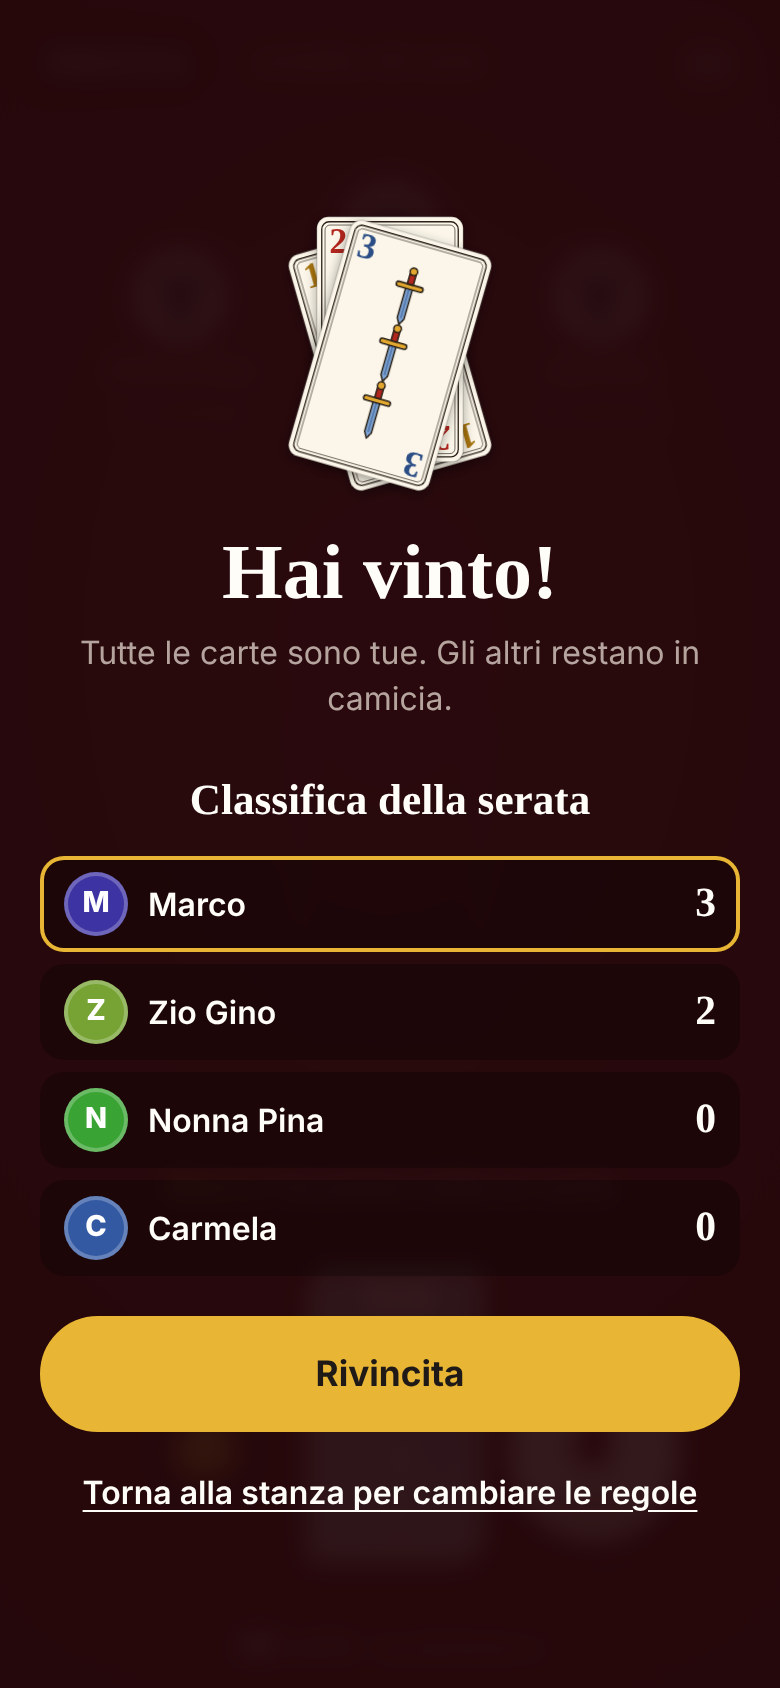
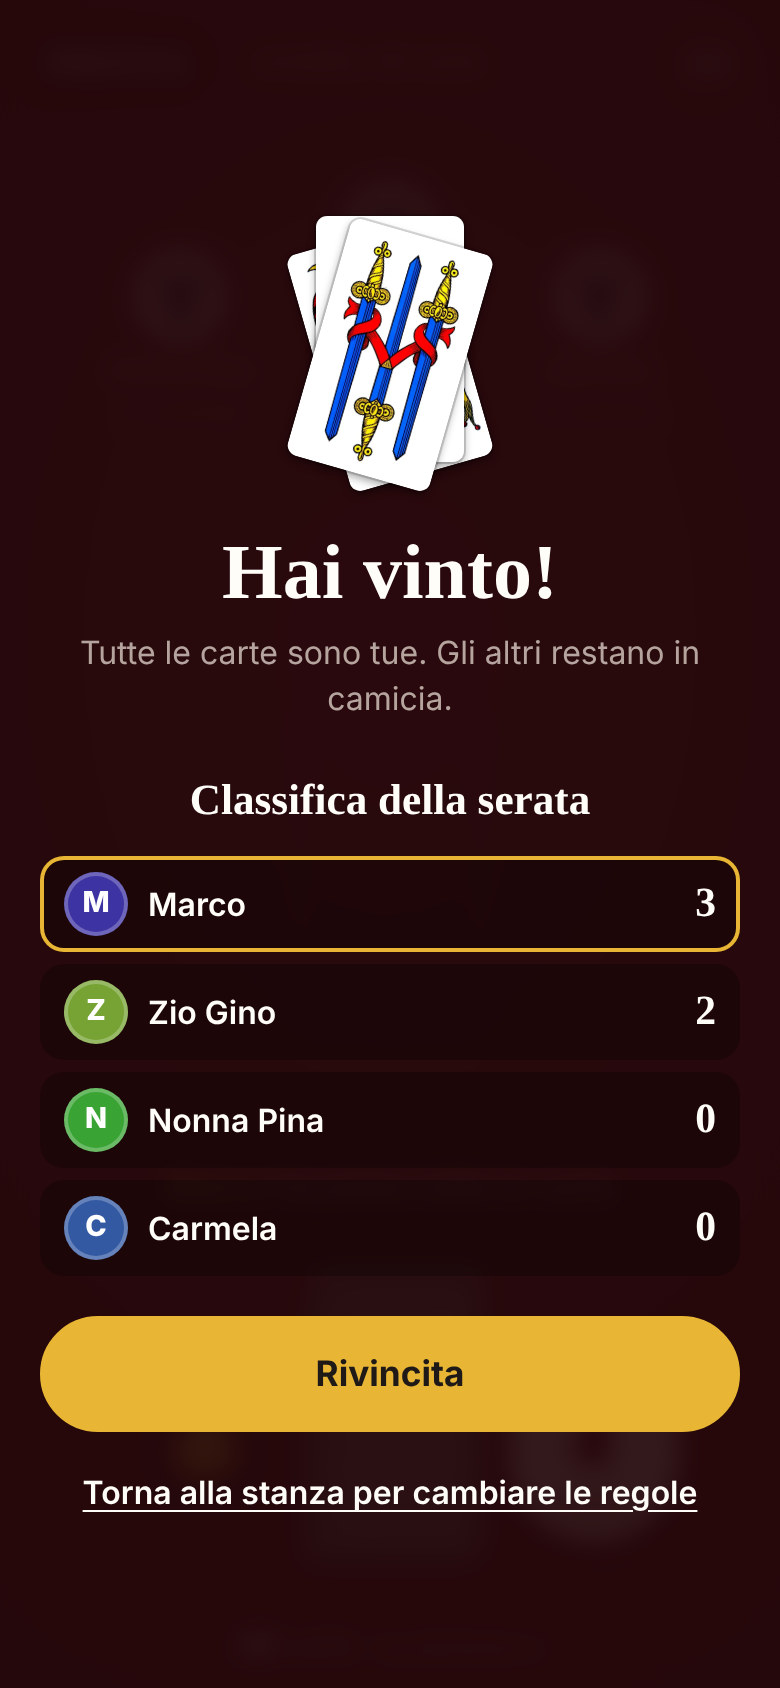
Carte napoletane e piacentine real

Changed region(s): [[0.3692, 0.1232, 0.6462, 0.3081]]

diff --git a/js/main.js b/js/main.js
@@ -1,5 +1,5 @@
 // Interfaccia di Straccia Camicia: schermate, tavolo, animazioni e comandi.
-import { installSprite, cardSVG, backSVG, STYLES } from './cards.js';
+import { installSprite, cardHTML, backHTML, backSVG, preloadDeck, STYLES } from './cards.js';
 import { createHost, joinRoom, createPractice, normalizeCode } from './net.js';
 import { sfx, unlock, setSound, setVibrate } from './audio.js';
 import { payValue } from './engine.js';
@@ -20,7 +20,7 @@ const prefs = Object.assign({ name: '', style: 'napoletano', sound: true, vibrat
 function savePrefs() { try { localStorage.setItem('sc-prefs', JSON.stringify(prefs)); } catch {} }
 setSound(prefs.sound); setVibrate(prefs.vibrate);
 setLang(detectLang(prefs.lang));
-const card = (c, style = prefs.style) => cardSVG(c, style, n => t('pay', { n }));
+const card = (c, style = prefs.style) => cardHTML(c, style, n => t('pay', { n }));
 
 // ---------------------------------------------------------------------------
 // Stato dell'app
@@ -58,7 +58,7 @@ function banner(text) { const b = $('#banner'); b.hidden = !text; b.textContent 
 function cardEl(card, { back = false } = {}) {
   const d = document.createElement('div');
   d.className = 'card';
-  d.innerHTML = back ? backSVG() : cardSVG(card, prefs.style, n => t('pay', { n }));
+  d.innerHTML = back ? backHTML(prefs.style) : cardHTML(card, prefs.style, n => t('pay', { n }));
   if (!back) { d.dataset.id = card.id; d.setAttribute('aria-label', cardLabel(card)); }
   return d;
 }
@@ -69,9 +69,13 @@ function cardEl(card, { back = false } = {}) {
 function renderHero() {
   const fan = $('#hero-fan');
   fan.innerHTML = '';
-  const cards = [{ s: 'B', r: 3 }, { s: 'D', r: 2 }, { s: 'C', r: 1 }];
-  const rots = [-20, -7, 6, 19];
-  [...cards, null].forEach((c, i) => {
+  // Dorso sotto e figure sopra: nel ventaglio si vede soprattutto il lato
+  // sinistro delle carte, e le napoletane non hanno numeri negli angoli.
+  const cards = prefs.style === 'moderno'
+    ? [null, { s: 'B', r: 3 }, { s: 'D', r: 2 }, { s: 'C', r: 1 }]
+    : [null, { s: 'C', r: 1 }, { s: 'D', r: 9 }, { s: 'S', r: 10 }];
+  const rots = [-24, -8, 8, 24];
+  cards.forEach((c, i) => {
     const el = cardEl(c || {}, { back: !c });
     el.style.transform = `translateX(-50%) rotate(${rots[i]}deg)`;
     el.style.animationDelay = `${i * 90}ms`;
@@ -663,7 +667,7 @@ function renderEnd() {
   const winner = v.winner != null ? playerName(v.winner) : '';
   let art = '', title = '', sub = '';
   if (v.draw) {
-    art = `<div class="trophy" style="position:relative;height:150px">${[0, 1, 2].map(k => `<div class="card" style="transform:translateX(-50%) rotate(${k * 120}deg)">${backSVG()}</div>`).join('')}</div>`;
+    art = `<div class="trophy" style="position:relative;height:150px">${[0, 1, 2].map(k => `<div class="card" style="transform:translateX(-50%) rotate(${k * 120}deg)">${backHTML(prefs.style)}</div>`).join('')}</div>`;
     title = t('end.drawT');
     sub = t('end.drawS');
   } else if (won) {
@@ -763,15 +767,15 @@ $('#sheet').addEventListener('click', e => {
   if (b.dataset.emoji) { session?.send({ t: 'emoji', e: b.dataset.emoji }); closeSheet(); }
   if (b.dataset.style) {
     prefs.style = b.dataset.style; savePrefs();
+    preloadDeck(prefs.style);
     $('#sheet').innerHTML = menuHTML();
-    renderHero(); if (game) { $('#pile').innerHTML = ''; renderPile(); }
+    $('#my-stack').innerHTML = '';
+    renderHero(); if (game) { $('#pile').innerHTML = ''; renderPile(); renderMe(); }
   }
   if (b.dataset.lang) { changeLang(b.dataset.lang); $('#sheet').innerHTML = menuHTML(); }
   if (b.dataset.pref) {
     prefs[b.dataset.pref] = !prefs[b.dataset.pref]; savePrefs();
     setSound(prefs.sound); setVibrate(prefs.vibrate);
-setLang(detectLang(prefs.lang));
-const card = (c, style = prefs.style) => cardSVG(c, style, n => t('pay', { n }));
     b.setAttribute('aria-checked', prefs[b.dataset.pref]);
     if (b.dataset.pref === 'sound' && prefs.sound) { unlock(); sfx('pop'); }
   }
@@ -820,6 +824,7 @@ function changeLang(l) {
 // ---------------------------------------------------------------------------
 function init() {
   installSprite();
+  preloadDeck(prefs.style);
   applyStatic();
   document.querySelectorAll('.lang-switch [data-lang]').forEach(b => {
     b.setAttribute('aria-pressed', b.dataset.lang === getLang());

diff --git a/js/cards.js b/js/cards.js
@@ -1,11 +1,42 @@
-// Carte disegnate in SVG: tre stili (napoletano, piacentino, moderno) e il dorso
-// "a camicia". Tutto vettoriale, nitido su qualsiasi schermo.
+// Le carte del gioco.
+// - Napoletane e piacentine: immagini di mazzi veri, da Wikimedia Commons
+//   (pubblico dominio, vedi carte/CREDITI.md), con il loro dorso.
+// - Moderne: disegnate qui in SVG, con indici grandi e l'etichetta "paga N".
+// Il dorso "a camicia" disegnato in SVG resta per lo stile moderno e per la
+// camicia stracciata di fine partita.
 
 export const STYLES = {
   napoletano: { label: 'Napoletane' },
   piacentino: { label: 'Piacentine' },
   moderno: { label: 'Moderne' },
 };
+
+export const PHOTO_DECKS = { napoletano: 'carte/napoletane', piacentino: 'carte/piacentine' };
+const BACK_IMG = 'carte/dorso.webp';
+const SUITS = ['D', 'C', 'B', 'S'];
+
+/** Faccia della carta come HTML: immagine vera o SVG disegnato. */
+export function cardHTML(card, style = 'napoletano', payLabel) {
+  const dir = PHOTO_DECKS[style];
+  if (dir) return `<img src="${dir}/${card.s}${card.r}.webp" alt="" draggable="false" decoding="async">`;
+  return cardSVG(card, style, payLabel);
+}
+
+/** Dorso della carta come HTML, nello stile scelto. */
+export function backHTML(style = 'napoletano') {
+  return PHOTO_DECKS[style] ? `<img src="${BACK_IMG}" alt="" draggable="false" decoding="async">` : backSVG();
+}
+
+/** Scarica in anticipo le 40 carte e il dorso, così durante la partita compaiono subito. */
+const preloaded = new Set();
+export function preloadDeck(style) {
+  const dir = PHOTO_DECKS[style];
+  if (!dir || preloaded.has(style)) return;
+  preloaded.add(style);
+  const srcs = [BACK_IMG];
+  for (const s of SUITS) for (let r = 1; r <= 10; r++) srcs.push(`${dir}/${s}${r}.webp`);
+  for (const src of srcs) { const im = new Image(); im.decoding = 'async'; im.src = src; }
+}
 
 const W = 180, H = 300;
 

diff --git a/css/style.css b/css/style.css
@@ -178,7 +178,14 @@ button { cursor: pointer; touch-action: manipulation; }
 
 /* ---------- CARTE ---------- */
 .card { width: var(--card-w); aspect-ratio: 180 / 300; position: relative; }
-.card svg { width: 100%; height: 100%; display: block; filter: drop-shadow(0 2px 3px rgba(0, 0, 0, .35)); }
+.card svg, .card img { width: 100%; height: 100%; display: block; }
+.card svg { filter: drop-shadow(0 2px 3px rgba(0, 0, 0, .35)); }
+/* carte vere: cartoncino bianco con angoli arrotondati */
+.card img {
+  border-radius: 7.5% / 4.5%; background: #fff; object-fit: cover;
+  box-shadow: 0 0 0 1px rgba(0, 0, 0, .14), 0 2px 4px rgba(0, 0, 0, .35);
+  -webkit-user-drag: none; user-select: none;
+}
 
 /* ---------- TAVOLO ---------- */
 #screen-game { height: 100dvh; overflow: hidden; }
@@ -219,6 +226,7 @@ button { cursor: pointer; touch-action: manipulation; }
 .pile .card { position: absolute; inset: 0; width: 100%; transition: transform .25s; }
 .pile .card.fly { transition: transform .34s cubic-bezier(.2, .7, .25, 1.05), opacity .34s; }
 .pile .card.pays svg { filter: drop-shadow(0 0 0 transparent) drop-shadow(0 0 10px rgba(232, 182, 52, .85)); }
+.pile .card.pays img { box-shadow: 0 0 0 1px rgba(0, 0, 0, .14), 0 0 12px 3px rgba(232, 182, 52, .85); }
 .pile-empty {
   position: absolute; inset: 0; border: 2px dashed var(--line); border-radius: 12px; display: grid; place-items: center;
   color: var(--muted); font-size: .8rem; text-align: center; padding: 8px;

diff --git a/README.md b/README.md
@@ -20,13 +20,13 @@
     <td align="center"><img src="docs/screenshots/stanza.jpg" width="190" alt="La stanza con il codice da condividere"></td>
     <td align="center"><img src="docs/screenshots/tavolo.jpg" width="190" alt="Il tavolo durante una partita"></td>
     <td align="center"><img src="docs/screenshots/fine.jpg" width="190" alt="Fine partita con la classifica della serata"></td>
-    <td align="center"><img src="docs/screenshots/table-en.jpg" width="190" alt="Il tavolo in inglese con le carte moderne"></td>
+    <td align="center"><img src="docs/screenshots/table-en.jpg" width="190" alt="Il tavolo in inglese con le carte piacentine"></td>
   </tr>
   <tr>
     <td align="center"><sub>Crei la stanza e mandi il codice</sub></td>
     <td align="center"><sub>Asso, due e tre fanno pagare</sub></td>
     <td align="center"><sub>Classifica e rivincita</sub></td>
-    <td align="center"><sub>Anche in inglese, con carte moderne</sub></td>
+    <td align="center"><sub>Anche in inglese, con le piacentine</sub></td>
   </tr>
 </table>
 
@@ -38,7 +38,7 @@ Straccia Camicia (o scamicia, cavacamisa, tras in camisa, pela gallina, a second
 - **Gira su tutto**: telefono, tablet e PC, direttamente dal browser. Si può aggiungere alla schermata Home come un'app.
 - **Gratis davvero**: è un sito statico su GitHub Pages; i dispositivi si parlano direttamente tra loro, quindi non c'è nessun server da pagare.
 - **Tutte le regole**, più le varianti regionali da scegliere per ogni stanza.
-- **Carte disegnate da zero** in tre stili: napoletane, piacentine e moderne.
+- **Carte vere**: napoletane e piacentine dalle scansioni di mazzi reali, più uno stile moderno con i numeri grandi, comodo sul telefono. Ognuno sceglie il suo.
 - **Italiano e inglese**: ognuno sceglie la sua lingua, anche nella stessa partita.
 - **Sfottò, suoni e vibrazione**, classifica della serata e rivincita al volo.
 - **Prova contro il computer** per imparare le regole da soli, anche senza internet.
@@ -92,14 +92,14 @@ Su Wi-Fi di casa e 4G/5G funziona quasi sempre. Alcune reti (certe reti universi
 
 ## Com'è fatto
 
-JavaScript puro, senza framework né passaggi di build. Le carte sono disegnate in SVG, i suoni sono sintetizzati al volo.
+JavaScript puro, senza framework né passaggi di build. Napoletane e piacentine sono immagini WebP leggere (circa 30 KB a carta) in [`carte/`](carte); lo stile moderno è disegnato in SVG e i suoni sono sintetizzati al volo.
 
 | File | Cosa contiene |
 | --- | --- |
 | [`js/engine.js`](js/engine.js) | Le regole del gioco, senza grafica |
 | [`js/room.js`](js/room.js) | La stanza: turni, timer, schiaffi, classifica (gira su chi crea la stanza) |
 | [`js/net.js`](js/net.js) | Il collegamento tra i dispositivi con [PeerJS](https://peerjs.com) (WebRTC) |
-| [`js/cards.js`](js/cards.js) | Le carte nei tre stili e il dorso a camicia |
+| [`js/cards.js`](js/cards.js) | Le carte nei tre stili: immagini vere e carte moderne in SVG |
 | [`js/i18n.js`](js/i18n.js) | I testi in italiano e inglese |
 | [`js/main.js`](js/main.js) | L'interfaccia |
 | [`js/audio.js`](js/audio.js) | Suoni e vibrazione |
@@ -120,6 +120,7 @@ I test delle regole giocano 2000 partite casuali con 2–6 giocatori e 1–3 maz
 
 - Regole e varianti dalla voce [Straccia camicia](https://it.wikipedia.org/wiki/Straccia_camicia) di Wikipedia.
 - La partita infinita è quella trovata con [drago-96/cavacamisa](https://github.com/drago-96/cavacamisa).
+- Carte napoletane: scansioni di un mazzo Dal Negro di Trocche100; carte piacentine: scansione di Florixc. Entrambe da Wikimedia Commons, di pubblico dominio. Dettagli in [`carte/CREDITI.md`](carte/CREDITI.md).
 - Collegamento peer-to-peer con [PeerJS](https://github.com/peers/peerjs) (licenza MIT).
 
 ## Licenza

diff --git a/README.en.md b/README.en.md
@@ -17,7 +17,7 @@
 
 <table align="center">
   <tr>
-    <td align="center"><img src="docs/screenshots/table-en.jpg" width="190" alt="The table in English with the modern cards"></td>
+    <td align="center"><img src="docs/screenshots/table-en.jpg" width="190" alt="The table in English with Piacentine cards"></td>
     <td align="center"><img src="docs/screenshots/stanza.jpg" width="190" alt="The room with the code to share"></td>
     <td align="center"><img src="docs/screenshots/tavolo.jpg" width="190" alt="The table during a game"></td>
     <td align="center"><img src="docs/screenshots/fine.jpg" width="190" alt="End of the game with tonight's standings"></td>
@@ -32,7 +32,7 @@ Straccia Camicia ("tear the shirt") is the Italian cousin of Beggar-My-Neighbour
 - **Runs anywhere**: phone, tablet and computer, straight from the browser. You can add it to your home screen like an app.
 - **Actually free**: it's a static site on GitHub Pages and the devices talk directly to each other, so there's no server to pay for.
 - **The full rules**, plus regional variants you pick per room.
-- **Hand-drawn cards** in three styles: Neapolitan, Piacentine and modern.
+- **Real cards**: Neapolitan and Piacentine decks from scans of actual printed decks, plus a modern style with big numbers that reads well on a phone. Everyone picks their own.
 - **Italian and English**: everyone picks their own language, even in the same game.
 - **Taunts, sound and vibration**, tonight's standings and instant rematches.
 - **Play against the computer** to learn the rules on your own, even offline.
@@ -76,11 +76,11 @@ If someone can't join, their network may be blocking direct connections (some un
 
 No build step, no dependencies. Fork the repository, then go to **Settings → Pages**, choose **Deploy from a branch**, branch **main**, folder **/ (root)**, and save. To run it locally, serve the folder with any static server (for example `python3 -m http.server`).
 
-The code is plain JavaScript: rules in [`js/engine.js`](js/engine.js), the room in [`js/room.js`](js/room.js), networking with [PeerJS](https://peerjs.com) in [`js/net.js`](js/net.js), SVG cards in [`js/cards.js`](js/cards.js), translations in [`js/i18n.js`](js/i18n.js). Run the tests with `npm test`.
+The code is plain JavaScript: rules in [`js/engine.js`](js/engine.js), the room in [`js/room.js`](js/room.js), networking with [PeerJS](https://peerjs.com) in [`js/net.js`](js/net.js), the cards in [`js/cards.js`](js/cards.js) and [`carte/`](carte), translations in [`js/i18n.js`](js/i18n.js). Run the tests with `npm test`.
 
 ## Credits
 
-Rules from the Italian Wikipedia article [Straccia camicia](https://it.wikipedia.org/wiki/Straccia_camicia). The endless game is the one found with [drago-96/cavacamisa](https://github.com/drago-96/cavacamisa). Peer-to-peer networking by [PeerJS](https://github.com/peers/peerjs) (MIT).
+Rules from the Italian Wikipedia article [Straccia camicia](https://it.wikipedia.org/wiki/Straccia_camicia). The endless game is the one found with [drago-96/cavacamisa](https://github.com/drago-96/cavacamisa). Neapolitan cards: scans of a Dal Negro deck by Trocche100; Piacentine cards: scan by Florixc; both public domain, from Wikimedia Commons (details in [`carte/CREDITI.md`](carte/CREDITI.md)). Peer-to-peer networking by [PeerJS](https://github.com/peers/peerjs) (MIT).
 
 ## License
 

diff --git a/carte/CREDITI.md b/carte/CREDITI.md
@@ -1,0 +1,18 @@
+# Crediti delle carte
+
+Le immagini delle carte napoletane e piacentine vengono da Wikimedia Commons e sono di **pubblico dominio**. Per il gioco sono state ridimensionate a 360×600 px e convertite in WebP; le piacentine sono state ritagliate dalla foto del mazzo completo, raddrizzate e messe su fondo bianco.
+
+## Napoletane (`carte/napoletane/`)
+
+Scansioni di un mazzo napoletano Dal Negro (Treviso), una per carta, caricate da **Trocche100** su Wikipedia in italiano e poi trasferite su Commons. Pubblico dominio.
+
+- Carte: da [File:01_Asso_di_denari.jpg](https://commons.wikimedia.org/wiki/File:01_Asso_di_denari.jpg) a [File:40_Dieci_di_Bastoni.jpg](https://commons.wikimedia.org/wiki/File:40_Dieci_di_Bastoni.jpg) (denari 01–10, coppe 11–20, spade 21–30, bastoni 31–40)
+- Dorso (`carte/dorso.webp`, usato per entrambi i mazzi): [File:Carte_Napoletane_retro.jpg](https://commons.wikimedia.org/wiki/File:Carte_Napoletane_retro.jpg)
+
+## Piacentine (`carte/piacentine/`)
+
+Ritagliate da [File:Carte_piacentine_al_completo.jpg](https://commons.wikimedia.org/wiki/File:Carte_piacentine_al_completo.jpg), scansione di un mazzo di piacentine tradizionali di **Florixc**. Pubblico dominio.
+
+## Nomi dei file
+
+`<seme><valore>.webp`, con seme `D` denari, `C` coppe, `B` bastoni, `S` spade e valore da 1 (asso) a 10 (re); 8 è il fante, 9 il cavallo.
